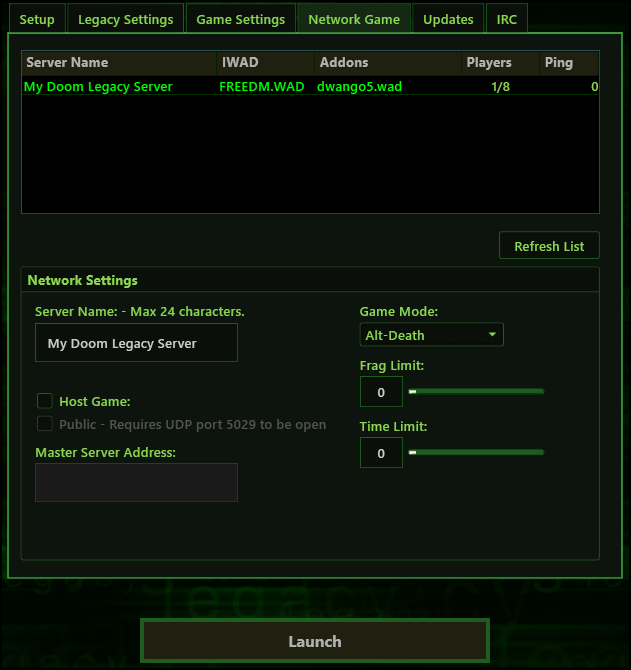
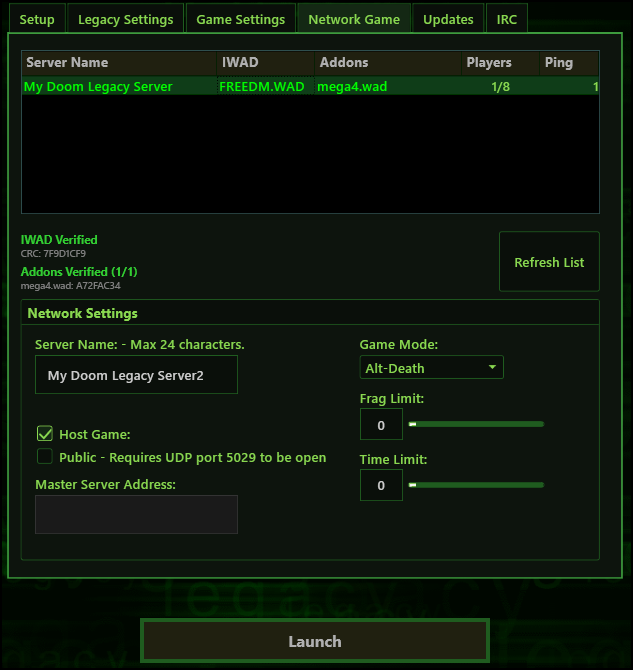
Add files via upload
Updated information about the recent updates to the Launcher.

diff --git a/users_manual.htm b/users_manual.htm
@@ -497,7 +497,7 @@ or have clicked it to Host a game from within the <a href="#network-tab">Network
                 <p style="color: #ccc; font-size: 14px; margin: 0 0 1rem 0;">
                 <p style="color: #ccc; font-size: 14px; margin: 0 0 1rem 0;">
   <strong>Host or Join Network Games:</strong><br><br>
-  In the Network Game tab, the first thing you'll notice is the Server List which will display any running Doom Legacy servers. Double-click servers in the server list to Join a hosted game, or host your own local area network (LAN) and public internet games by checking the <strong>Host Game</strong> checkbox. <br>
+  In the Network Game tab, the first thing you'll notice is the Server List which will display any running Doom Legacy servers. Single-click a server will show the CRC Checksum of both IWAD and if there's a PWAD hosted, or if an Addon is missing prior to download. Double-click servers in the server list to Join a hosted game, or host your own local area network (LAN) and public internet games by checking the <strong>Host Game</strong> checkbox. <br>
                 </p>
                 <p style="color: #ccc; font-size: 14px; margin: 0 0 1rem 0;">If hosting a game, add a new <strong>Server Name</strong> in the Server Name text field. If the server name entered is already in use, the launcher will inform you to change the name of it. Since you're planning to Host a server, you can also quickly adjust the <strong>Game Mode</strong>, <strong>Fraglimit</strong> and <strong>Timelimit</strong> prior to hosting..</br>
                 </p>
@@ -526,7 +526,7 @@ or have clicked it to Host a game from within the <a href="#network-tab">Network
     <!-- Right Side: Description text and bullet lists -->
     <div class="tab-text-side">
       <ul class="style1" style="color: #ccc; font-size: 14px; padding-left: 1.2rem; margin: 0;">
-        <li style="margin-bottom: 0.4rem;">The <strong>Updates tab</strong> is where you can <strong>Download Doom Legacy</strong> as well as its Common resource files. The Launcher will download, extract them, and have you ready to play in a single click. </li>
+        <li style="margin-bottom: 0.4rem;">The <strong>Updates tab</strong> is where you can <strong>Check for Launcher Updates</strong> or <strong>Download Doom Legacy</strong> as well as its Common resource files. The Launcher will download, extract them, and have you ready to play in a single click. </li>
         <li>The same goes for the Shareware and Freedoom IWADs. When the launcher detect that you don't have any IWADs installed, the <strong>Download Free IWADs</strong> button will be visible.</li>
         <li style="margin-bottom: 0.4rem;"><strong>Doom Legacy Neo</strong> is a development branch based on the 1.42 birthday version of Doom Legacy. Updated to SDL3, offering widescreen support and a new master server network protocol. Automatic downloads for Neo may be disabled at times; when this is the case, use <strong>Check for new Releases</strong> to be taken to the download page manually.</li>
         <li><strong>Update Engine Path</strong>: This button is currently disabled and will be functional in later verrsions of the launcher. The reasoning behind it is if you have downloaded and installed both engines, the button allows you to switch between their engine paths. Letting you Immediately switch from the current Doom Legacy engine to Doom Legacy Neo engine with a single click.</li>
